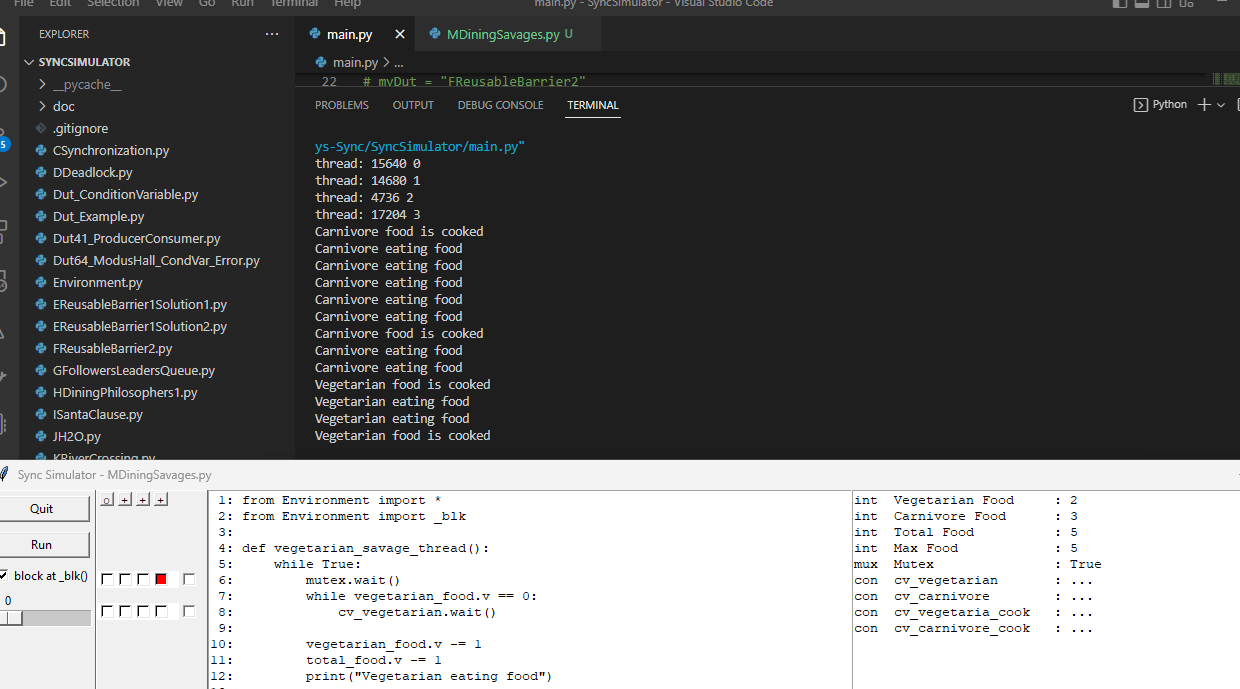
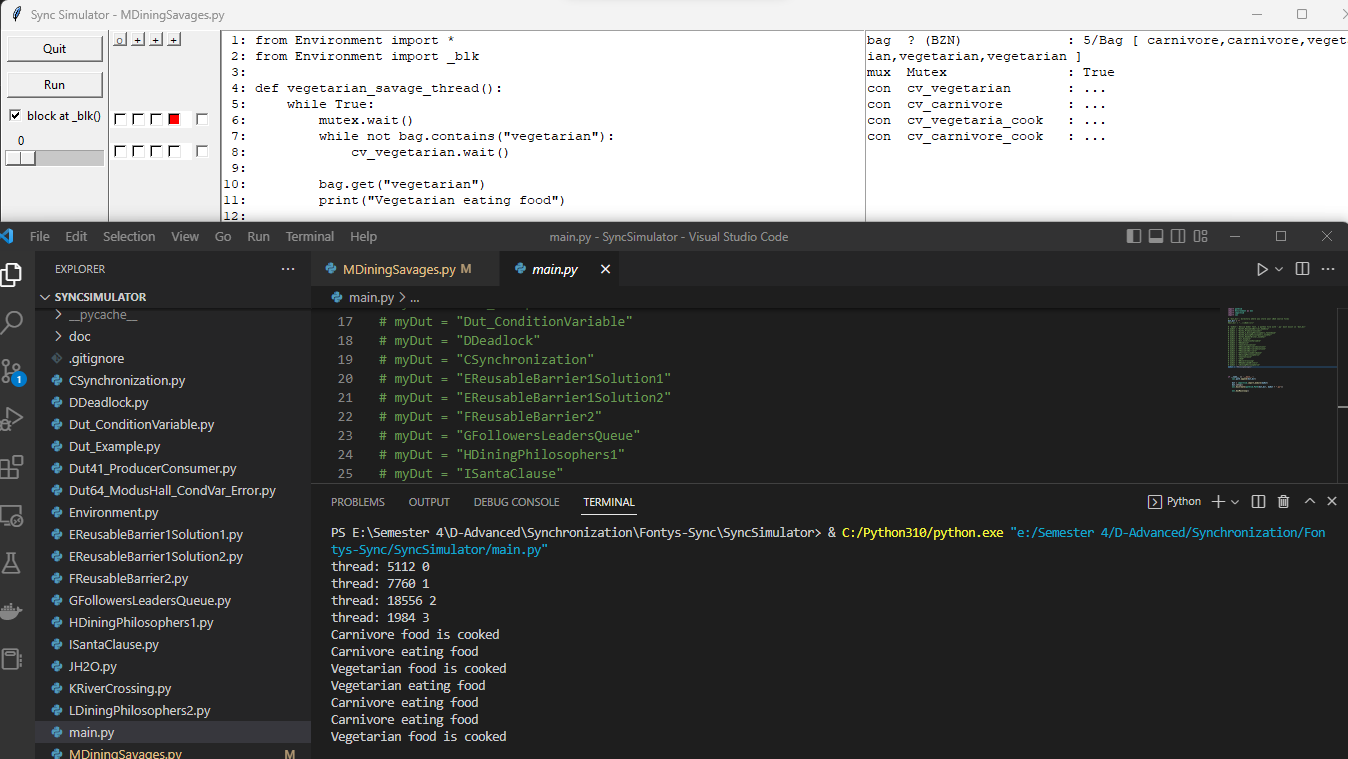
dining savages proof

diff --git a/SyncSimulator/MDiningSavages.py b/SyncSimulator/MDiningSavages.py
@@ -59,10 +59,6 @@ def carnivore_cook_thread():
             cv_carnivore.notify_all()
         mutex.signal()
 
-vegetarian_food = MyInt(0, "Vegetarian Food")
-carnivore_food = MyInt(0, "Carnivore Food")
-total_food = MyInt(0, "Total Food")
-max_size = MyInt(5, "Max Food")
 bag = MyBag("Bag")
 mutex = MyMutex("Mutex")
 cv_vegetarian = MyConditionVariable(mutex, "cv_vegetarian")
